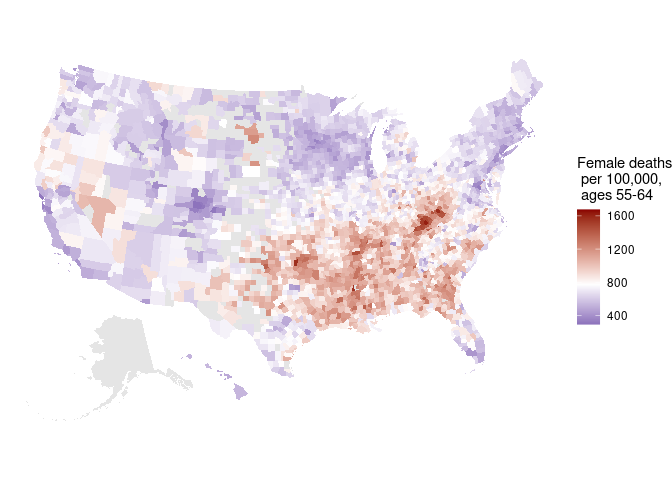
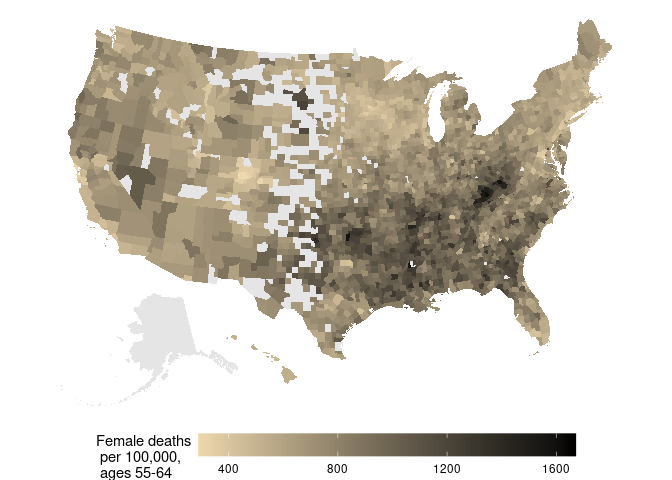
colors

diff --git a/README.md b/README.md
@@ -16,7 +16,7 @@ This repository contains code and data for the paper:
 > Community Health with Areal Data: Bayesian Inference with Survey
 > Standard Errors and Spatial Structure** *International Journal of
 > Environmental Research and Public Health* 18, no. 13: 6856.
-> [https://doi.org/10.3390/ijerph18136856](https://nam02.safelinks.protection.outlook.com/?url=https%3A%2F%2Fwww.mdpi.com%2F1660-4601%2F18%2F13%2F6856%2Fhtm&amp;data=04%7C01%7CConnor.Donegan%40UTDallas.edu%7C6a789b765f014b70c15308d93871af86%7C8d281d1d9c4d4bf7b16e032d15de9f6c%7C0%7C0%7C637602883212906229%7CUnknown%7CTWFpbGZsb3d8eyJWIjoiMC4wLjAwMDAiLCJQIjoiV2luMzIiLCJBTiI6Ik1haWwiLCJXVCI6Mn0%3D%7C1000&amp;sdata=PKevZqbmISlO2NLsrZltUEugKg1AQm8Cj7RbgSuyt8k%3D&amp;reserved).
+> <https://doi.org/10.3390/ijerph18136856>.
 
 The purpose of the repository is to demonstrate implementation of the
 methodology and to share the underlying R and Stan code. For discussion
@@ -101,21 +101,21 @@ quantile( apply(as.matrix(S), 2, Rhat) )
 ```
 
     ##        0%       25%       50%       75%      100% 
-    ## 0.9997516 0.9999708 1.0005973 1.0022551 1.0040246
+    ## 0.9997505 0.9999724 1.0005311 1.0006829 1.0060352
 
 ``` r
 quantile( apply(as.matrix(S), 2, ess_bulk) )
 ```
 
-    ##        0%       25%       50%       75%      100% 
-    ##  921.2808 2844.0339 6214.0710 7024.8999 9476.8270
+    ##       0%      25%      50%      75%     100% 
+    ## 1048.434 1974.684 7074.647 7952.598 9863.585
 
 ``` r
 quantile( apply(as.matrix(S), 2, ess_tail) )
 ```
 
-    ##       0%      25%      50%      75%     100% 
-    ## 1498.231 1665.987 2688.078 2952.691 3471.287
+    ##        0%       25%       50%       75%      100% 
+    ##  900.9604  901.8681 2698.9552 2948.8143 3476.0234
 
 The `plot.res` function is stored in the `r-functions.R` file, and it
 provides the visual diagnostics discussed in the paper:
@@ -144,7 +144,7 @@ quantile( apply(x, 1, var  ) )
 ```
 
     ##       0%      25%      50%      75%     100% 
-    ## 15.29325 19.87897 21.02640 22.24189 29.04813
+    ## 14.77782 19.73126 20.86281 22.09522 27.62099
 
 ### CAR models in Stan
 
@@ -452,14 +452,9 @@ S <- sampling(CAR_pois, data = car_dl, chains = 4, cores = 4, iter = 800, refres
 
 The log-mortality rates are stored in the parameter `phi`. Here we
 calculate and map the mean of the posterior probability distributions
-for each county mortality rate. The color gradient is centered on the
-mean county mortality rate:
+for each county mortality rate:
 
 ``` r
-## mean county mortality rate per 100,000
-alpha <- as.matrix(S, pars = "alpha")
-alpha <- mean( exp(alpha) ) * 100e3
-
 ## county mortality rates per 100,000
 phi <- as.matrix(S, pars = "phi")
 phi <- exp( phi ) * 100e3
@@ -469,21 +464,25 @@ female.df$phi <- apply(phi, 2, mean)
 sp.df <- readr::read_rds("data/county-data.rds")
 sp.df <- left_join(sp.df, female.df, by = "GEOID")
 
-## map mean mortality rates
+## map mortality rates
 sp.df %>%
   ggplot() +
   geom_sf(aes(fill = phi),
           lwd = 0.01
           ) +
-  scale_fill_gradient2(
-    low = "navy",
-    high= "darkred",
-    midpoint = alpha,
-    mid = "white",
+  scale_fill_gradient(
+    low = "wheat2",
+    high= "black", 
+#    midpoint = alpha,
+#    mid = "white",
     name = "Female deaths\n per 100,000,\n ages 55-64",
     na.value = "grey90"
   ) +
-  theme_void()
+  theme_void() +
+  theme(     
+       legend.position = "bottom",
+       legend.key.width = unit(2, 'cm')
+       )  
 ```
 
 ![](README_files/figure-markdown_github/unnamed-chunk-11-1.png)
@@ -533,13 +532,13 @@ print(S, pars = c("alpha", "beta1", "beta2", "phi_tau", "phi_rho"))
     ## post-warmup draws per chain=400, total post-warmup draws=1600.
     ## 
     ##          mean se_mean   sd  2.5%   25%   50%   75% 97.5% n_eff Rhat
-    ## alpha   -4.86       0 0.07 -5.00 -4.89 -4.86 -4.83 -4.74   569    1
-    ## beta1    0.31       0 0.07  0.17  0.26  0.31  0.36  0.45  1625    1
-    ## beta2   -1.67       0 0.04 -1.74 -1.69 -1.67 -1.64 -1.60  1382    1
-    ## phi_tau  0.23       0 0.01  0.22  0.23  0.23  0.24  0.24   564    1
-    ## phi_rho  1.00       0 0.00  1.00  1.00  1.00  1.00  1.00  1274    1
+    ## alpha   -4.86       0 0.05 -4.97 -4.89 -4.86 -4.83 -4.75  1411 1.00
+    ## beta1    0.31       0 0.07  0.18  0.27  0.32  0.36  0.45  1637 1.00
+    ## beta2   -1.67       0 0.03 -1.73 -1.69 -1.67 -1.65 -1.60  1641 1.00
+    ## phi_tau  0.23       0 0.01  0.22  0.23  0.23  0.24  0.24   489 1.01
+    ## phi_rho  1.00       0 0.00  1.00  1.00  1.00  1.00  1.00  1771 1.00
     ## 
-    ## Samples were drawn using NUTS(diag_e) at Sat Jun 26 16:55:17 2021.
+    ## Samples were drawn using NUTS(diag_e) at Tue Jun 29 22:53:41 2021.
     ## For each parameter, n_eff is a crude measure of effective sample size,
     ## and Rhat is the potential scale reduction factor on split chains (at 
     ## convergence, Rhat=1).
@@ -551,7 +550,7 @@ quantile(alpha, probs = c(0.05, 0.95)) * 100e3
 ```
 
     ##       5%      95% 
-    ## 701.6145 849.8919
+    ## 707.7380 841.0667
 
 ``` r
 # inequality in county mortality rates per 100,000
@@ -563,18 +562,18 @@ Q90 <- apply(phi, 1, quantile, probs = 0.90)
 mean(Q10) * 100e3
 ```
 
-    ## [1] 529.1507
+    ## [1] 529.0343
 
 ``` r
 ## the 90th percentile:
 mean(Q90) * 100e3
 ```
 
-    ## [1] 1117.01
+    ## [1] 1117.06
 
 ``` r
 ## Relative index of inequality: p90/p10:
 mean( Q90 / Q10 )
 ```
 
-    ## [1] 2.111026
+    ## [1] 2.11159
